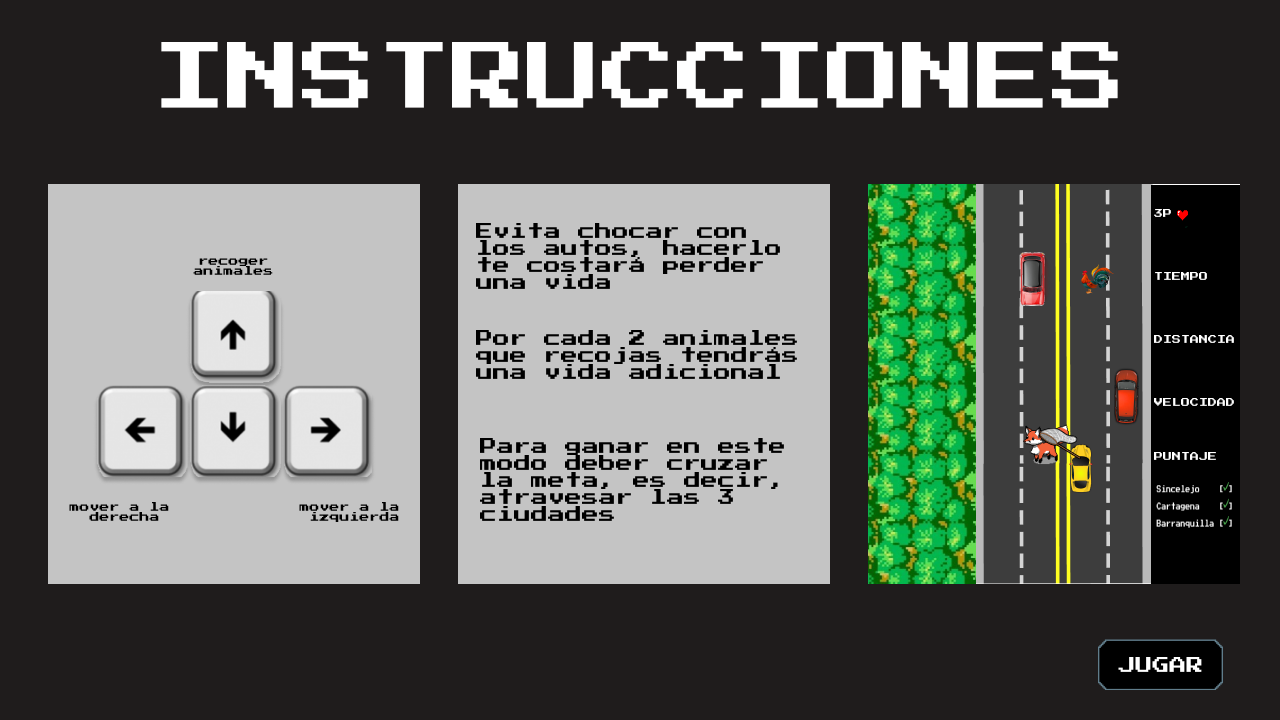
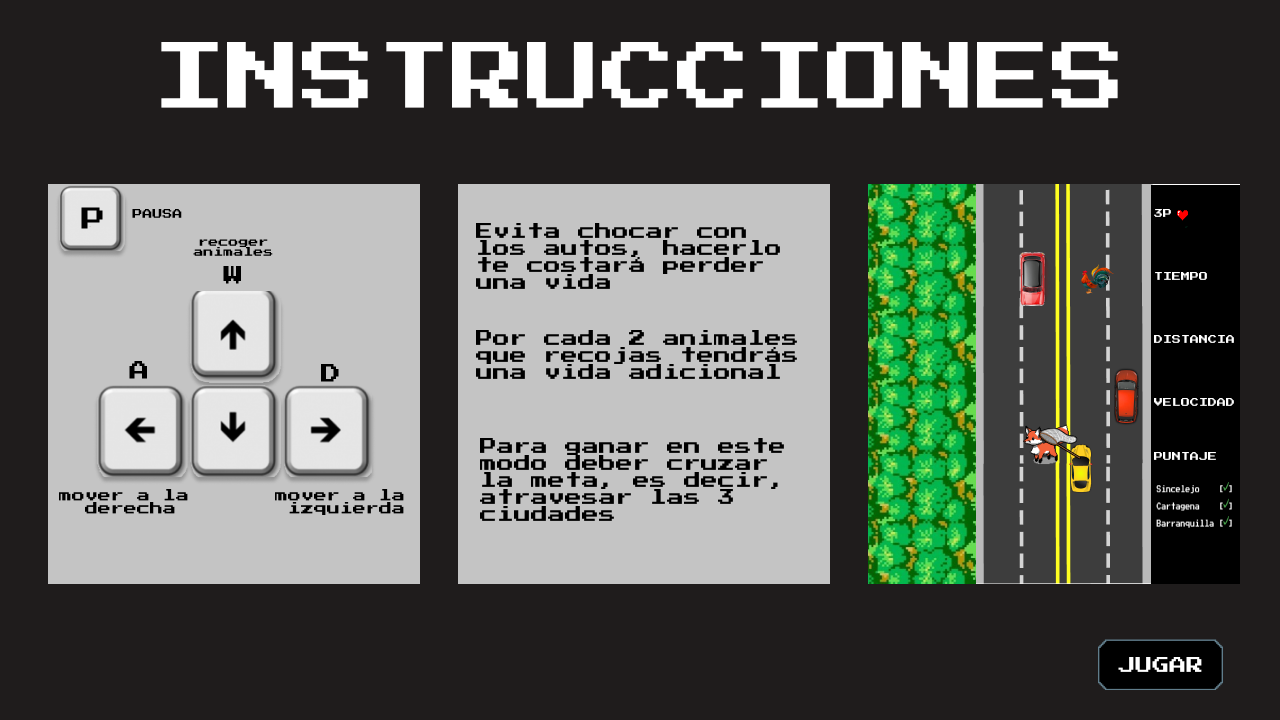
Version entregable para el dia de mañana

diff --git a/src/game/GameSketch.java b/src/game/GameSketch.java
@@ -58,7 +58,15 @@ public class GameSketch extends PApplet {
             imageNoLife = false, keyTime = true, keyRenaudar = true;
 
     String p = "p";
+    String w = "w";
+    String a = "a";
+    String s = "s";
+    String d = "d";
+
     char pausa = p.charAt(0);
+    char Wasd = w.charAt(0);
+    char wAsd = a.charAt(0);
+    char wasD = d.charAt(0);
 
     String SoundLobby = "/sounds/SoundLobby.wav", level2 = "/sounds/ulala.wav", level3 = "/sounds/songquilla.wav",
             level1 = "/sounds/soundlevel1.wav", soundCredits = "/sounds/oninonino.wav",
@@ -1041,7 +1049,9 @@ public class GameSketch extends PApplet {
 
             } else {
                 soundBomm.play();
-                life = life - 1;
+                if(life>0){
+                    life = life - 1;
+                }
                 image(less, 1123, 14);
                 xPositionColision = ordenadasizquierda[h];
                 yPositionColision = abcisa[h];
@@ -1137,17 +1147,17 @@ public class GameSketch extends PApplet {
     public void keyPressed() {
         if (move == true) {
             if (keyPressed == true) {
-                if (keyCode == RIGHT) {
+                if (keyCode == RIGHT||key == wasD) {
                     if (xPostionCarplayer < 920) {
                         xPostionCarplayer = xPostionCarplayer + 50;
                     }
                 }
-                if (keyCode == LEFT) {
+                if (keyCode == LEFT||key == wAsd) {
                     if (xPostionCarplayer > 275) {
                         xPostionCarplayer = xPostionCarplayer - 50;
                     }
                 }
-                if (keyCode == UP) {
+                if (keyCode == UP||key == Wasd) {
 
                     for (int h = 0; h <= 14; h++) {
 
@@ -1680,6 +1690,7 @@ public class GameSketch extends PApplet {
         yPositionCarplayer = 520;
         yPositionSincelejoKid = -246;
         yCartagenaKids = -250;
+        yPositionLineMeta = -83;
         life = 3;
         posx_i = -150;
         posx_f = 1430;
